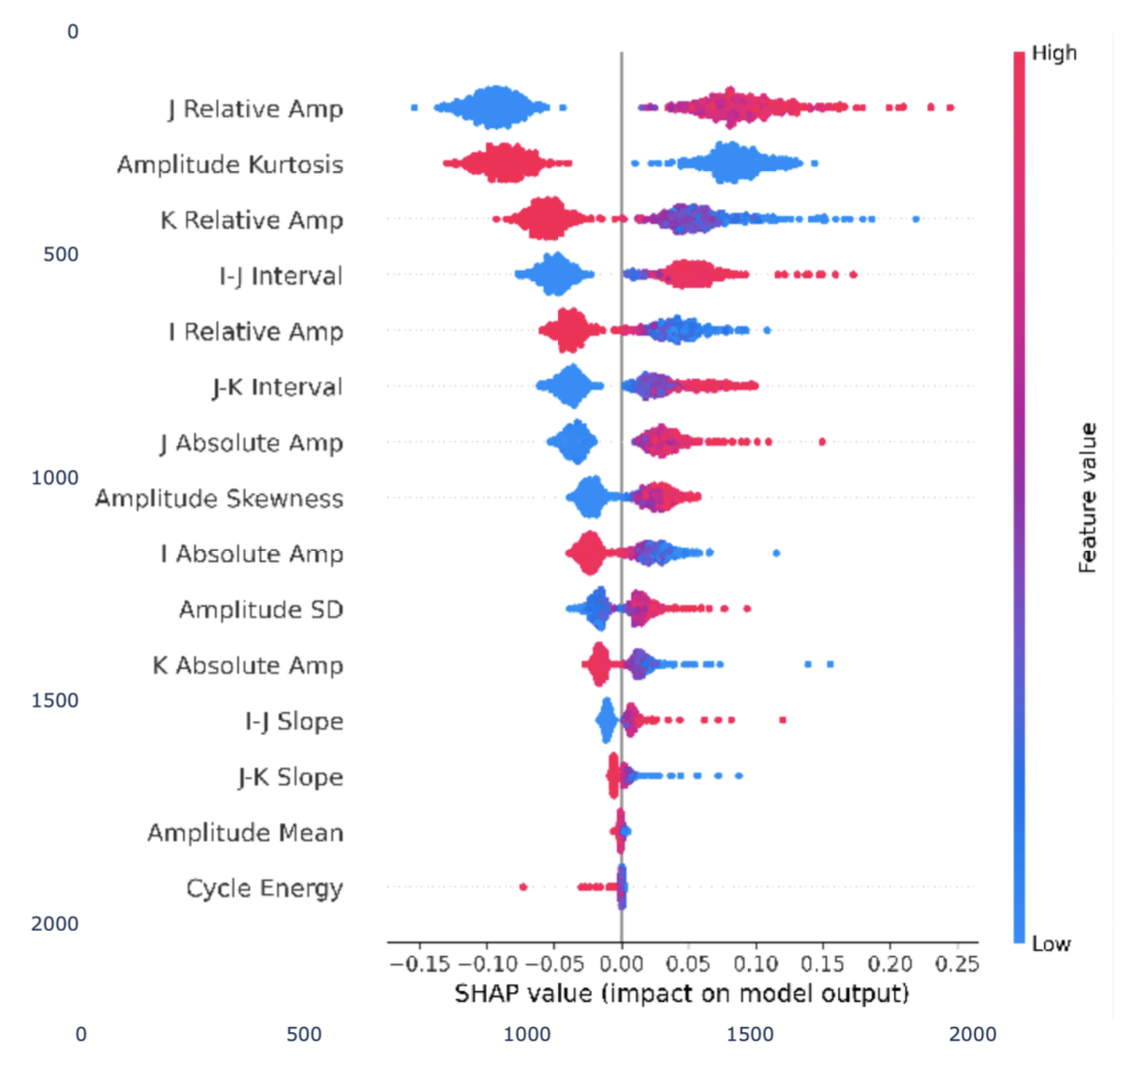
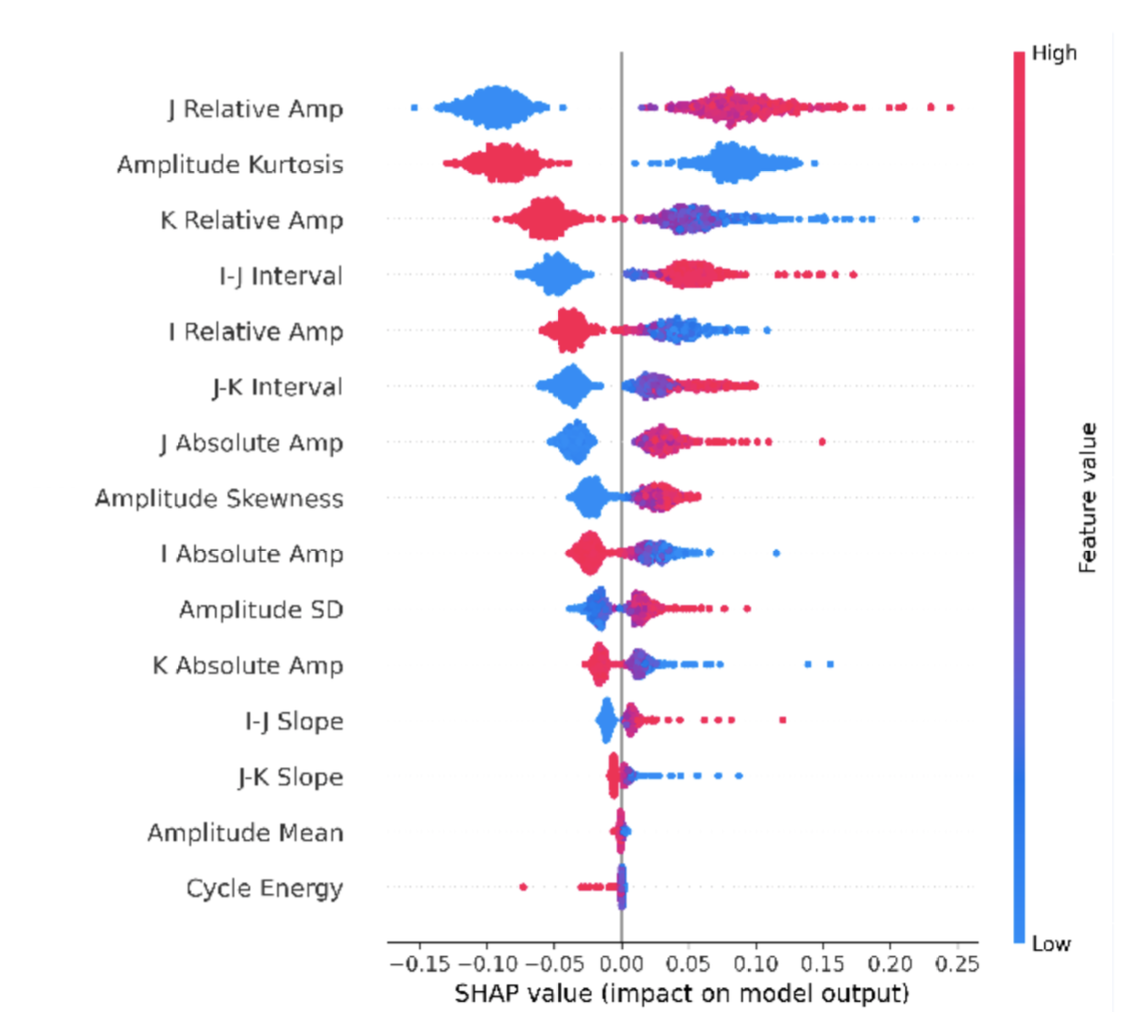
Fix Sense1 figure defects and add captions

diff --git a/src/App.js b/src/App.js
@@ -1326,7 +1326,13 @@ function App() {
         ENG: ["LSTM heart-rate model on BCG signals (TensorFlow / Keras)", "FFT and wavelet denoising; IJK peak periodicity as features", "Unsupervised peak detection to reduce dependence on ECG", "Worked with hardware and production teams on signal quality"],
         KOR: ["BCG 신호 기반 LSTM 심박 모델 (TensorFlow / Keras)", "FFT·웨이블릿 노이즈 제거, IJK 피크 주기성을 피처로", "비지도 피크 검출로 ECG 의존도 감소", "하드웨어·생산팀과 신호 품질 개선"],
       },
-      media: [{ src: senseoneImage1, caption: { ENG: "Sense1 Vet", KOR: "Sense1 Vet" } }, { src: senseoneImage2, caption: { ENG: "", KOR: "" } }, { src: senseoneImage3, caption: { ENG: "", KOR: "" } }, { src: senseoneImage4, caption: { ENG: "", KOR: "" } }, { src: senseoneImage5, caption: { ENG: "", KOR: "" } }],
+      media: [
+        { src: senseoneImage1, caption: { ENG: "Pipeline: BCG → cycle detection → LSTM → heart rate", KOR: "파이프라인: BCG → 주기 검출 → LSTM → 심박" } },
+        { src: senseoneImage4, caption: { ENG: "Raw → filtered → cycles → peaks", KOR: "원신호 → 전처리 → 주기 → 피크" } },
+        { src: senseoneImage2, caption: { ENG: "Wavelet denoising (6-level DWT)", KOR: "웨이블릿 노이즈 제거 (6단계)" } },
+        { src: senseoneImage5, caption: { ENG: "SHAP feature importance", KOR: "SHAP 피처 중요도" } },
+        { src: senseoneImage3, caption: { ENG: "BiLSTM model summary", KOR: "BiLSTM 모델 구조" } },
+      ],
       id: 'proj-6', key: 'sense1Vet', org: 'company', fields: ['DL', 'Signal'],
       title: { ENG: '(CareSix) Sense1 Vet Heart-Rate Algorithm', KOR: '(케어식스) Sense1 Vet 심박 알고리즘' },
       location: { ENG: 'CareSix Co., LTD · wearable for dogs', KOR: '케어식스 · 반려견 웨어러블' },
